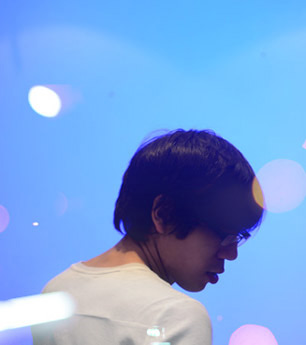
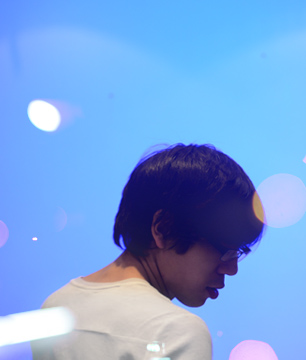
Update profile picture

diff --git a/bin/css/style.min.css b/bin/css/style.min.css
@@ -1,1 +1,1 @@
-html,body,div,span,object,iframe,h1,h2,h3,h4,h5,h6,p,blockquote,pre,abbr,address,cite,code,del,dfn,em,img,ins,kbd,q,samp,small,strong,sub,sup,var,b,i,dl,dt,dd,ol,ul,li,fieldset,form,label,legend,table,caption,tbody,tfoot,thead,tr,th,td,article,aside,canvas,details,figcaption,figure,footer,header,hgroup,menu,nav,section,summary,time,mark,audio,video{margin:0;padding:0;border:0;outline:0;font-size:100%;vertical-align:baseline;background:transparent}body{line-height:1}article,aside,details,figcaption,figure,footer,header,hgroup,menu,nav,section{display:block}nav ul{list-style:none}blockquote,q{quotes:none}blockquote:before,blockquote:after,q:before,q:after{content:'';content:none}a{margin:0;padding:0;font-size:100%;vertical-align:baseline;background:transparent}ins{background-color:#ff9;color:#000;text-decoration:none}mark{background-color:#ff9;color:#000;font-style:italic;font-weight:bold}del{text-decoration:line-through}abbr[title],dfn[title]{border-bottom:1px dotted;cursor:help}table{border-collapse:collapse;border-spacing:0}hr{display:block;height:1px;border:0;border-top:1px solid #ccc;margin:1em 0;padding:0}input,select{vertical-align:middle}@font-face{font-family:'MuseoSans500';src:url('webfonts/museosans-500/museosans-500.eot');src:url('webfonts/museosans-500/museosans-500.eot?#iefix') format('embedded-opentype'),url('webfonts/museosans-500/museosans-500.woff') format('woff'),url('webfonts/museosans-500/museosans-500.ttf') format('truetype'),url('webfonts/museosans-500/museosans-500.svg#MuseoSans500') format('svg');font-weight:normal;font-style:normal}@font-face{font-family:'MuseoSans300';src:url('webfonts/museosans-300/museosans-300.eot');src:url('webfonts/museosans-300/museosans-300.eot?#iefix') format('embedded-opentype'),url('webfonts/museosans-300/museosans-300.woff') format('woff'),url('webfonts/museosans-300/museosans-300.ttf') format('truetype'),url('webfonts/museosans-300/museosans-300.svg#MuseoSans300') format('svg');font-weight:normal;font-style:normal}@font-face{font-family:'ProximaNovaSemiBold';src:url("webfonts/proximanova-sbold/proximanova-sbold.eot");src:local('☺'),url("webfonts/proximanova-sbold/proximanova-sbold.ttf") format('truetype'),url('webfonts/proximanova-sbold/proximanova-sbold.svg#webfontaA1mSBzj') format('svg');font-weight:normal;font-style:normal}*{-webkit-text-size-adjust:none}html,body{font-family:'MuseoSans500',"Helvetica Neue",Helvetica,Arial,sans-serif;font-size:11px;line-height:18px;margin:0;padding:0;color:#111;background-color:#fafafa}::-webkit-scrollbar-thumb{border-radius:16px;border:4px solid #fafafa}::-webkit-scrollbar-thumb:vertical{background-color:#c0c7c7;height:100px}::-webkit-scrollbar-thumb:horizontal{background-color:#c0c7c7;height:16px!important}::-webkit-scrollbar-thumb:hover{background-color:#0a9fe1}::-webkit-scrollbar{height:16px;width:16px;background-color:#fafafa}::-webkit-scrollbar-corner{background-color:#fafafa}hr{color:#03b2f3;background-color:#03b2f3;height:2px;border:0;margin-right:18px;margin-left:18px}#body-content hr{margin-right:0;margin-left:0}ul{list-style-type:none}div img{margin-top:0;margin-left:0;padding-top:0;padding-left:0}button,input,select,textarea{color:#fff;background-color:#fff;border:1px solid #6f6f6f}input{width:200px;height:14px;transition:border-color .2s;-moz-transition:border-color .2s;-webkit-transition:border-color .2s;-o-transition:border-color .2s}input:hover{border-color:#000}a{text-decoration:none}.content a{-moz-transition-property:background-color,color;-moz-transition-duration:.2s;-webkit-transition-property:background-color,color;-webkit-transition-duration:.2s;-o-transition-property:background-color,color;-o-transition-duration:.2s;color:#0689e9;background-color:#fafafa;-webkit-border-radius:2px;-moz-border-radius:2px;-o-border-radius:2px;border-radius:2px}.content a:hover{color:#fff;background-color:#0a9fe1}a.menu{-moz-transition-property:color;-moz-transition-duration:.2s;-webkit-transition-property:color;-webkit-transition-duration:.2s;-o-transition-property:color;-o-transition-duration:.2s;color:#111;-webkit-font-smoothing:antialiased;font-family:'ProximaNovaSemiBold',"Helvetica Neue",Helvetica,Arial,sans-serif;font-size:14px;line-height:25px;text-transform:uppercase;font-weight:normal;border:0;border-bottom:0 solid #111;float:left;margin-top:5px;letter-spacing:.0px}.menu-space{-moz-transition-property:color;-moz-transition-duration:.2s;-webkit-transition-property:color;-webkit-transition-duration:.2s;-o-transition-property:color;-o-transition-duration:.2s;color:#0a9fe1;font-family:'ProximaNovaSemiBold',"Helvetica Neue",Helvetica,Arial,sans-serif;font-size:15px;line-height:25px;text-transform:uppercase;font-weight:normal;border:0;border-bottom:0 solid #dbdbdb;float:left;margin-top:6px;letter-spacing:.0px}a:hover.menu{color:#0689e9}a.menuSelected{color:#0689e9}a#arrow-top{-moz-transition-property:color;-moz-transition-duration:.2s;-webkit-transition-property:color;-webkit-transition-duration:.2s;-o-transition-property:color;-o-transition-duration:.2s;color:#111}a:hover#arrow-top{color:#0689e9}.share img{-moz-transition-property:background-color;-moz-transition-duration:.2s;-webkit-transition-property:background-color;-webkit-transition-duration:.2s;-o-transition-property:background-color;-o-transition-duration:.2s;background-color:#111;-webkit-border-radius:3px;-moz-border-radius:3px;-o-border-radius:3px;border-radius:3px;float:right;position:relative;margin-left:9px}.share img:hover{background-color:#0689e9}h1{font-family:'ProximaNovaSemiBold' "Helvetica Neue",Helvetica,Arial,sans-serif;font-size:48px;line-height:48px;letter-spacing:.0px;font-weight:normal;text-transform:uppercase;margin-bottom:0;margin-top:-4px;margin-left:-2px;-webkit-font-smoothing:antialiased;color:#0689e9}h2{font-family:'ProximaNovaSemiBold',"Helvetica Neue",Helvetica,Arial,sans-serif;font-size:21px;line-height:32px;letter-spacing:.0px;font-weight:normal;text-transform:uppercase}h3{-webkit-font-smoothing:antialiased;font-family:'ProximaNovaSemiBold',"Helvetica Neue",Helvetica,Arial,sans-serif;font-size:12px;line-height:25px;text-transform:uppercase;font-weight:normal;border:0;border-bottom:2px solid #111;float:left;margin-top:5px;letter-spacing:.0px}h4{font-family:'ProximaNovaSemiBold',"Helvetica Neue",Helvetica,Arial,sans-serif;font-size:12px;line-height:14px;text-transform:uppercase;font-weight:normal;border:0;border-bottom:2px;float:left;margin-top:0;letter-spacing:.0px}h5{font-family:'ProximaNovaSemiBold',"Helvetica Neue",Helvetica,Arial,sans-serif;font-size:21px;line-height:32px;letter-spacing:.0px;font-weight:normal}#container-header{position:fixed;z-index:80;width:100%;opacity:.0;top:0}#header{margin-left:auto;margin-right:auto;width:1026px}#header-left{position:absolute;width:306px;text-align:left;margin-left:33px;top:135px;color:#111;-webkit-font-smoothing:antialiased;font-family:'ProximaNovaSemiBold',"Helvetica Neue",Helvetica,Arial,sans-serif;font-size:14px;text-transform:uppercase;font-weight:normal;letter-spacing:.0px;opacity:.0}#logo{position:absolute;width:222px;height:54px;margin-left:402px;top:61px}#header-center{position:absolute;text-align:center;width:990px;margin-left:18px;top:126px}#nav{margin-left:324px}#header-right{position:absolute;width:306px;text-align:right;margin-left:687px;top:136px;color:#111;-webkit-font-smoothing:antialiased;font-family:'ProximaNovaSemiBold',"Helvetica Neue",Helvetica,Arial,sans-serif;font-size:14px;text-transform:uppercase;font-weight:normal;letter-spacing:.0px}#container-header-bg{position:fixed;z-index:70;width:100%;top:0}#header-bg{margin-left:auto;margin-right:auto;width:1026px}#header-bar{position:absolute;height:2px;width:990px;margin-left:18px;margin-right:18px;top:200px;background-color:#03b2f3}#header-bar-bg{position:absolute;height:200px;width:990px;margin-left:18px;margin-right:18px;top:0;background-color:#fafafa;-webkit-box-shadow:0 7px 4px -4px rgba(0,0,0,0.2);-moz-box-shadow:0 7px 4px -4px rgba(0,0,0,0.2);box-shadow:0 7px 4px -4px rgba(0,0,0,0.2);opacity:0}#container-body{margin-top:213px;margin-left:auto;margin-right:auto;width:1026px;overflow:hidden;z-index:5}.date{margin-right:2px}.plus{padding-right:3px;padding-left:3px}.video{background-color:#111}.video-container{background-color:#111;text-align:center;height:557px}.profile-picture img{width:306px;height:345px}.brand img{-moz-transition-property:background-color;-moz-transition-duration:.2s;-webkit-transition-property:background-color;-webkit-transition-duration:.2s;-o-transition-property:background-color;-o-transition-duration:.2s;-webkit-border-radius:6px;-moz-border-radius:6px;-o-border-radius:6px;border-radius:6px;width:99px;height:75px;float:left;position:relative}.brand img:hover{background-color:#e7e7e7}.new-row{clear:both}.profile-picture{margin-top:10px}.inner-left{margin-right:25px}.size1of1,.size1of2,.size1of3,.size1of4,.size1of4b,.size3of4,.size3of4b,.size2of3,.size2of3b,.size1of6{float:left;position:relative;margin-right:18px;margin-left:18px}.inner-left,.inner-right{float:left;position:relative}.size1of1{width:990px}.size1of2{width:477px}.size1of3{width:306px}.size1of4{width:221px}.size1of4b{width:220px}.size3of4{width:733px}.size3of4b{width:660px;padding-right:73px}.size1of6{width:135px}.size2of3{width:648px}.size2of3b{width:590px;padding-right:58px}.copy{font-size:14px;line-height:21px;font-family:'MuseoSans300',"Helvetica Neue",Helvetica,Arial,sans-serif;color:#000}.copy-project{font-size:14px;line-height:21px;padding-right:60px;font-family:'MuseoSans300',"Helvetica Neue",Helvetica,Arial,sans-serif;color:#000}.isotope-item{z-index:20}.isotope-hidden.isotope-item{pointer-events:none;z-index:10}html,body{height:100%}.grid-item{width:135px;height:221px;margin:18px;float:left;overflow:hidden;position:relative;cursor:pointer}.small{width:306px;height:241px}.medium{width:306px;height:381px}.big{width:648px;height:381px}.grid-item-image{-moz-transition-property:background-color;-moz-transition-duration:.2s;-webkit-transition-property:background-color;-webkit-transition-duration:.2s;-o-transition-property:background-color;-o-transition-duration:.2s;margin:0;padding:0}.grid-item-image.small{width:306px;height:211px}.grid-item-image.medium{width:306px;height:351px}.grid-item-image.big{width:648px;height:351px}.grid-item-name{-moz-transition-property:border-bottom-color,color;-moz-transition-duration:.2s;-webkit-transition-property:border-bottom-color,color;-webkit-transition-duration:.2s;-o-transition-property:border-bottom-color,color;-o-transition-duration:.2s;-webkit-font-smoothing:antialiased;position:absolute;margin:0;left:.0px;bottom:.0px;font-family:'ProximaNovaSemiBold',"Helvetica Neue",Helvetica,Arial,sans-serif;font-size:12px;line-height:25px;text-transform:uppercase;font-weight:normal;border:0;border-bottom:2px solid #111;color:#111;float:left;margin-top:5px;letter-spacing:.0px}.grid-item-name.over{color:#0689e9;border-bottom:2px solid #0689e9}.grid-item-over{position:absolute;z-index:5;left:.0px;top:.0px;background-color:#0689e9}.grid-item-over.small{width:306px;height:211px}.grid-item-over.medium{width:306px;height:351px}.grid-item-over.big{width:648px;height:351px}.grid-item-tags{position:absolute;margin:0;right:.0px;bottom:3.0px}a.tag{-moz-transition-property:background-color,color;-moz-transition-duration:.2s;-webkit-transition-property:background-color,color;-webkit-transition-duration:.2s;-o-transition-property:background-color,color;-o-transition-duration:.2s;background-color:#c0c7c7;color:#fff;font-size:10px;-webkit-border-radius:9px;-moz-border-radius:9px;-o-border-radius:9px;border-radius:9px;text-transform:lowercase;text-decoration:none;white-space:nowrap;display:inline-block;font-weight:normal;padding:1px 5px 1px 5px;margin:2px 0 1px 0}a:hover.tag{background-color:#0a9fe1;color:#fff}a.tagSelected{background-color:#0a9fe1;color:#fff;font-size:10px;-webkit-border-radius:9px;-moz-border-radius:9px;-o-border-radius:9px;border-radius:9px;text-transform:lowercase;text-decoration:none;white-space:nowrap;display:inline-block;font-weight:normal;padding:1px 5px 1px 5px;margin:2px 0 1px 0}a:hover.tagSelected{background-color:#0a9fe1;color:#fff}a.view-project{-moz-transition-property:background-color,color;-moz-transition-duration:.2s;-webkit-transition-property:background-color,color;-webkit-transition-duration:.2s;-o-transition-property:background-color,color;-o-transition-duration:.2s;-webkit-font-smoothing:antialiased;color:#fff;background-color:#111;font-family:'ProximaNovaSemiBold',"Helvetica Neue",Helvetica,Arial,sans-serif;font-size:21px;line-height:32px;letter-spacing:.0px;font-weight:normal;text-transform:uppercase;-webkit-border-radius:6px;-moz-border-radius:6px;-o-border-radius:6px;border-radius:6px;text-decoration:none;white-space:nowrap;display:inline-block;font-weight:normal;padding:12px 80px 10px 81px;margin-top:6px;margin-bottom:13px;-webkit-box-shadow:0 7px 4px -4px rgba(0,0,0,0.2);-moz-box-shadow:0 7px 4px -4px rgba(0,0,0,0.2);box-shadow:0 7px 4px -4px rgba(0,0,0,0.2)}a:hover.view-project{background-color:#0689e9}.project-image{float:left;position:relative;margin-bottom:10px}#stream-grid{width:100%}#word-grid{width:342px;float:left;position:relative}#media-grid{width:684px;margin-top:18px;float:left;position:relative}.media-stream-item{position:relative;overflow:hidden;text-align:left;display:block;margin-bottom:30px}.media-stream-item p{margin-top:7px}.word-stream-item{position:relative;overflow:hidden;text-align:left;display:block;margin-bottom:20px}.word-stream-line{position:relative;overflow:hidden;text-align:left;display:block;background-color:#e7e7e7;height:2px;margin-right:18px;margin-left:18px;margin-bottom:20px}.video-item-landscape{width:306px;height:254px}.video-item-portrait{width:306px;height:433px}.flickr-stream-item{overflow:hidden;height:313px}canvas{position:fixed;top:0;left:0;overflow:hidden;z-index:0;width:100%;height:100%}#follow{height:34px;margin-top:16px;margin-bottom:45px}.follow-icon{float:left;position:relative;margin-right:4px;width:34px;height:34px;cursor:pointer}.follow-icon img{position:absolute;top:0;left:0}.follow-icon-out{opacity:1.0;-moz-opacity:1.0;filter:alpha(opacity=100)}.follow-icon-over{transition:opacity .2s;-moz-transition:opacity .2s;-webkit-transition:opacity .2s;-o-transition:opacity .2s;opacity:0;-moz-opacity:0;filter:alpha(opacity=0)}.follow-icon-over:hover{opacity:1.0;-moz-opacity:1.0;filter:alpha(opacity=100)}.pagination .animated{-khtml-transition-duration:300ms;-ms-transition-duration:300ms;-moz-transition-duration:300ms;-webkit-transition-duration:300ms;-o-transition-duration:300ms;transition-duration:300ms;-khtml-transition-timing-function:ease-out;-ms-transition-timing-function:ease-out;-moz- transition-timing-function:ease-out;-webkit-transition-timing-function:ease-out;-o-transition-timing-function:ease-out;transition-timing-function:ease-out}.pagination .arrow{overflow:hidden;top:50%;position:fixed;margin-top:-60px;z-index:999}.pagination .arrow{background:url(../images/arrows.png) 0 0 no-repeat;cursor:pointer;height:115px;text-indent:-9999px;overflow:hidden;width:75px;opacity:.7}.pagination.prev-project{left:0}.pagination.prev-project .arrow{background-position:30px 25px;left:0}.pagination.prev-project:hover .arrow{background-position:20px 25px;opacity:1!important}.pagination.next-project{right:0}.pagination.next-project .arrow{background-position:0 -199px;right:0}.pagination.next-project:hover .arrow{background-position:10px -199px;opacity:1!important}body:hover .pagination .arrow{opacity:.7}
+html,body,div,span,object,iframe,h1,h2,h3,h4,h5,h6,p,blockquote,pre,abbr,address,cite,code,del,dfn,em,img,ins,kbd,q,samp,small,strong,sub,sup,var,b,i,dl,dt,dd,ol,ul,li,fieldset,form,label,legend,table,caption,tbody,tfoot,thead,tr,th,td,article,aside,canvas,details,figcaption,figure,footer,header,hgroup,menu,nav,section,summary,time,mark,audio,video{margin:0;padding:0;border:0;outline:0;font-size:100%;vertical-align:baseline;background:transparent}body{line-height:1}article,aside,details,figcaption,figure,footer,header,hgroup,menu,nav,section{display:block}nav ul{list-style:none}blockquote,q{quotes:none}blockquote:before,blockquote:after,q:before,q:after{content:'';content:none}a{margin:0;padding:0;font-size:100%;vertical-align:baseline;background:transparent}ins{background-color:#ff9;color:#000;text-decoration:none}mark{background-color:#ff9;color:#000;font-style:italic;font-weight:bold}del{text-decoration:line-through}abbr[title],dfn[title]{border-bottom:1px dotted;cursor:help}table{border-collapse:collapse;border-spacing:0}hr{display:block;height:1px;border:0;border-top:1px solid #ccc;margin:1em 0;padding:0}input,select{vertical-align:middle}@font-face{font-family:'MuseoSans500';src:url('webfonts/museosans-500/museosans-500.eot');src:url('webfonts/museosans-500/museosans-500.eot?#iefix') format('embedded-opentype'),url('webfonts/museosans-500/museosans-500.woff') format('woff'),url('webfonts/museosans-500/museosans-500.ttf') format('truetype'),url('webfonts/museosans-500/museosans-500.svg#MuseoSans500') format('svg');font-weight:normal;font-style:normal}@font-face{font-family:'MuseoSans300';src:url('webfonts/museosans-300/museosans-300.eot');src:url('webfonts/museosans-300/museosans-300.eot?#iefix') format('embedded-opentype'),url('webfonts/museosans-300/museosans-300.woff') format('woff'),url('webfonts/museosans-300/museosans-300.ttf') format('truetype'),url('webfonts/museosans-300/museosans-300.svg#MuseoSans300') format('svg');font-weight:normal;font-style:normal}@font-face{font-family:'ProximaNovaSemiBold';src:url("webfonts/proximanova-sbold/proximanova-sbold.eot");src:local('☺'),url("webfonts/proximanova-sbold/proximanova-sbold.ttf") format('truetype'),url('webfonts/proximanova-sbold/proximanova-sbold.svg#webfontaA1mSBzj') format('svg');font-weight:normal;font-style:normal}*{-webkit-text-size-adjust:none}html,body{font-family:'MuseoSans500',"Helvetica Neue",Helvetica,Arial,sans-serif;font-size:11px;line-height:18px;margin:0;padding:0;color:#111;background-color:#fafafa}::-webkit-scrollbar-thumb{border-radius:16px;border:4px solid #fafafa}::-webkit-scrollbar-thumb:vertical{background-color:#c0c7c7;height:100px}::-webkit-scrollbar-thumb:horizontal{background-color:#c0c7c7;height:16px!important}::-webkit-scrollbar-thumb:hover{background-color:#0a9fe1}::-webkit-scrollbar{height:16px;width:16px;background-color:#fafafa}::-webkit-scrollbar-corner{background-color:#fafafa}hr{color:#03b2f3;background-color:#03b2f3;height:2px;border:0;margin-right:18px;margin-left:18px}#body-content hr{margin-right:0;margin-left:0}ul{list-style-type:none}div img{margin-top:0;margin-left:0;padding-top:0;padding-left:0}button,input,select,textarea{color:#fff;background-color:#fff;border:1px solid #6f6f6f}input{width:200px;height:14px;transition:border-color .2s;-moz-transition:border-color .2s;-webkit-transition:border-color .2s;-o-transition:border-color .2s}input:hover{border-color:#000}a{text-decoration:none}.content a{-moz-transition-property:background-color,color;-moz-transition-duration:.2s;-webkit-transition-property:background-color,color;-webkit-transition-duration:.2s;-o-transition-property:background-color,color;-o-transition-duration:.2s;color:#0689e9;background-color:#fafafa;-webkit-border-radius:2px;-moz-border-radius:2px;-o-border-radius:2px;border-radius:2px}.content a:hover{color:#fff;background-color:#0a9fe1}a.menu{-moz-transition-property:color;-moz-transition-duration:.2s;-webkit-transition-property:color;-webkit-transition-duration:.2s;-o-transition-property:color;-o-transition-duration:.2s;color:#111;-webkit-font-smoothing:antialiased;font-family:'ProximaNovaSemiBold',"Helvetica Neue",Helvetica,Arial,sans-serif;font-size:14px;line-height:25px;text-transform:uppercase;font-weight:normal;border:0;border-bottom:0 solid #111;float:left;margin-top:5px;letter-spacing:.0px}.menu-space{-moz-transition-property:color;-moz-transition-duration:.2s;-webkit-transition-property:color;-webkit-transition-duration:.2s;-o-transition-property:color;-o-transition-duration:.2s;color:#0a9fe1;font-family:'ProximaNovaSemiBold',"Helvetica Neue",Helvetica,Arial,sans-serif;font-size:15px;line-height:25px;text-transform:uppercase;font-weight:normal;border:0;border-bottom:0 solid #dbdbdb;float:left;margin-top:6px;letter-spacing:.0px}a:hover.menu{color:#0689e9}a.menuSelected{color:#0689e9}a#arrow-top{-moz-transition-property:color;-moz-transition-duration:.2s;-webkit-transition-property:color;-webkit-transition-duration:.2s;-o-transition-property:color;-o-transition-duration:.2s;color:#111}a:hover#arrow-top{color:#0689e9}.share img{-moz-transition-property:background-color;-moz-transition-duration:.2s;-webkit-transition-property:background-color;-webkit-transition-duration:.2s;-o-transition-property:background-color;-o-transition-duration:.2s;background-color:#111;-webkit-border-radius:3px;-moz-border-radius:3px;-o-border-radius:3px;border-radius:3px;float:right;position:relative;margin-left:9px}.share img:hover{background-color:#0689e9}h1{font-family:'ProximaNovaSemiBold' "Helvetica Neue",Helvetica,Arial,sans-serif;font-size:48px;line-height:48px;letter-spacing:.0px;font-weight:normal;text-transform:uppercase;margin-bottom:0;margin-top:-4px;margin-left:-2px;-webkit-font-smoothing:antialiased;color:#0689e9}h2{font-family:'ProximaNovaSemiBold',"Helvetica Neue",Helvetica,Arial,sans-serif;font-size:21px;line-height:32px;letter-spacing:.0px;font-weight:normal;text-transform:uppercase}h3{-webkit-font-smoothing:antialiased;font-family:'ProximaNovaSemiBold',"Helvetica Neue",Helvetica,Arial,sans-serif;font-size:12px;line-height:25px;text-transform:uppercase;font-weight:normal;border:0;border-bottom:2px solid #111;float:left;margin-top:5px;letter-spacing:.0px}h4{font-family:'ProximaNovaSemiBold',"Helvetica Neue",Helvetica,Arial,sans-serif;font-size:12px;line-height:14px;text-transform:uppercase;font-weight:normal;border:0;border-bottom:2px;float:left;margin-top:0;letter-spacing:.0px}h5{font-family:'ProximaNovaSemiBold',"Helvetica Neue",Helvetica,Arial,sans-serif;font-size:21px;line-height:32px;letter-spacing:.0px;font-weight:normal}#container-header{position:fixed;z-index:80;width:100%;opacity:.0;top:0}#header{margin-left:auto;margin-right:auto;width:1026px}#header-left{position:absolute;width:306px;text-align:left;margin-left:33px;top:135px;color:#111;-webkit-font-smoothing:antialiased;font-family:'ProximaNovaSemiBold',"Helvetica Neue",Helvetica,Arial,sans-serif;font-size:14px;text-transform:uppercase;font-weight:normal;letter-spacing:.0px;opacity:.0}#logo{position:absolute;width:222px;height:54px;margin-left:402px;top:61px}#header-center{position:absolute;text-align:center;width:990px;margin-left:18px;top:126px}#nav{margin-left:324px}#header-right{position:absolute;width:306px;text-align:right;margin-left:687px;top:136px;color:#111;-webkit-font-smoothing:antialiased;font-family:'ProximaNovaSemiBold',"Helvetica Neue",Helvetica,Arial,sans-serif;font-size:14px;text-transform:uppercase;font-weight:normal;letter-spacing:.0px}#container-header-bg{position:fixed;z-index:70;width:100%;top:0}#header-bg{margin-left:auto;margin-right:auto;width:1026px}#header-bar{position:absolute;height:2px;width:990px;margin-left:18px;margin-right:18px;top:200px;background-color:#03b2f3}#header-bar-bg{position:absolute;height:200px;width:990px;margin-left:18px;margin-right:18px;top:0;background-color:#fafafa;-webkit-box-shadow:0 7px 4px -4px rgba(0,0,0,0.2);-moz-box-shadow:0 7px 4px -4px rgba(0,0,0,0.2);box-shadow:0 7px 4px -4px rgba(0,0,0,0.2);opacity:0}#container-body{margin-top:213px;margin-left:auto;margin-right:auto;width:1026px;overflow:hidden;z-index:5}.date{margin-right:2px}.plus{padding-right:3px;padding-left:3px}.video{background-color:#111}.video-container{background-color:#111;text-align:center;height:557px}.profile-picture img{width:306px;height:360px}.brand img{-moz-transition-property:background-color;-moz-transition-duration:.2s;-webkit-transition-property:background-color;-webkit-transition-duration:.2s;-o-transition-property:background-color;-o-transition-duration:.2s;-webkit-border-radius:6px;-moz-border-radius:6px;-o-border-radius:6px;border-radius:6px;width:99px;height:75px;float:left;position:relative}.brand img:hover{background-color:#e7e7e7}.new-row{clear:both}.profile-picture{margin-top:10px}.inner-left{margin-right:25px}.size1of1,.size1of2,.size1of3,.size1of4,.size1of4b,.size3of4,.size3of4b,.size2of3,.size2of3b,.size1of6{float:left;position:relative;margin-right:18px;margin-left:18px}.inner-left,.inner-right{float:left;position:relative}.size1of1{width:990px}.size1of2{width:477px}.size1of3{width:306px}.size1of4{width:221px}.size1of4b{width:220px}.size3of4{width:733px}.size3of4b{width:660px;padding-right:73px}.size1of6{width:135px}.size2of3{width:648px}.size2of3b{width:590px;padding-right:58px}.copy{font-size:14px;line-height:21px;font-family:'MuseoSans300',"Helvetica Neue",Helvetica,Arial,sans-serif;color:#000}.copy-project{font-size:14px;line-height:21px;padding-right:60px;font-family:'MuseoSans300',"Helvetica Neue",Helvetica,Arial,sans-serif;color:#000}.isotope-item{z-index:20}.isotope-hidden.isotope-item{pointer-events:none;z-index:10}html,body{height:100%}.grid-item{width:135px;height:221px;margin:18px;float:left;overflow:hidden;position:relative;cursor:pointer}.small{width:306px;height:241px}.medium{width:306px;height:381px}.big{width:648px;height:381px}.grid-item-image{-moz-transition-property:background-color;-moz-transition-duration:.2s;-webkit-transition-property:background-color;-webkit-transition-duration:.2s;-o-transition-property:background-color;-o-transition-duration:.2s;margin:0;padding:0}.grid-item-image.small{width:306px;height:211px}.grid-item-image.medium{width:306px;height:351px}.grid-item-image.big{width:648px;height:351px}.grid-item-name{-moz-transition-property:border-bottom-color,color;-moz-transition-duration:.2s;-webkit-transition-property:border-bottom-color,color;-webkit-transition-duration:.2s;-o-transition-property:border-bottom-color,color;-o-transition-duration:.2s;-webkit-font-smoothing:antialiased;position:absolute;margin:0;left:.0px;bottom:.0px;font-family:'ProximaNovaSemiBold',"Helvetica Neue",Helvetica,Arial,sans-serif;font-size:12px;line-height:25px;text-transform:uppercase;font-weight:normal;border:0;border-bottom:2px solid #111;color:#111;float:left;margin-top:5px;letter-spacing:.0px}.grid-item-name.over{color:#0689e9;border-bottom:2px solid #0689e9}.grid-item-over{position:absolute;z-index:5;left:.0px;top:.0px;background-color:#0689e9}.grid-item-over.small{width:306px;height:211px}.grid-item-over.medium{width:306px;height:351px}.grid-item-over.big{width:648px;height:351px}.grid-item-tags{position:absolute;margin:0;right:.0px;bottom:3.0px}a.tag{-moz-transition-property:background-color,color;-moz-transition-duration:.2s;-webkit-transition-property:background-color,color;-webkit-transition-duration:.2s;-o-transition-property:background-color,color;-o-transition-duration:.2s;background-color:#c0c7c7;color:#fff;font-size:10px;-webkit-border-radius:9px;-moz-border-radius:9px;-o-border-radius:9px;border-radius:9px;text-transform:lowercase;text-decoration:none;white-space:nowrap;display:inline-block;font-weight:normal;padding:1px 5px 1px 5px;margin:2px 0 1px 0}a:hover.tag{background-color:#0a9fe1;color:#fff}a.tagSelected{background-color:#0a9fe1;color:#fff;font-size:10px;-webkit-border-radius:9px;-moz-border-radius:9px;-o-border-radius:9px;border-radius:9px;text-transform:lowercase;text-decoration:none;white-space:nowrap;display:inline-block;font-weight:normal;padding:1px 5px 1px 5px;margin:2px 0 1px 0}a:hover.tagSelected{background-color:#0a9fe1;color:#fff}a.view-project{-moz-transition-property:background-color,color;-moz-transition-duration:.2s;-webkit-transition-property:background-color,color;-webkit-transition-duration:.2s;-o-transition-property:background-color,color;-o-transition-duration:.2s;-webkit-font-smoothing:antialiased;color:#fff;background-color:#111;font-family:'ProximaNovaSemiBold',"Helvetica Neue",Helvetica,Arial,sans-serif;font-size:21px;line-height:32px;letter-spacing:.0px;font-weight:normal;text-transform:uppercase;-webkit-border-radius:6px;-moz-border-radius:6px;-o-border-radius:6px;border-radius:6px;text-decoration:none;white-space:nowrap;display:inline-block;font-weight:normal;padding:12px 80px 10px 81px;margin-top:6px;margin-bottom:13px;-webkit-box-shadow:0 7px 4px -4px rgba(0,0,0,0.2);-moz-box-shadow:0 7px 4px -4px rgba(0,0,0,0.2);box-shadow:0 7px 4px -4px rgba(0,0,0,0.2)}a:hover.view-project{background-color:#0689e9}.project-image{float:left;position:relative;margin-bottom:10px}#stream-grid{width:100%}#word-grid{width:342px;float:left;position:relative}#media-grid{width:684px;margin-top:18px;float:left;position:relative}.media-stream-item{position:relative;overflow:hidden;text-align:left;display:block;margin-bottom:30px}.media-stream-item p{margin-top:7px}.word-stream-item{position:relative;overflow:hidden;text-align:left;display:block;margin-bottom:20px}.word-stream-line{position:relative;overflow:hidden;text-align:left;display:block;background-color:#e7e7e7;height:2px;margin-right:18px;margin-left:18px;margin-bottom:20px}.video-item-landscape{width:306px;height:254px}.video-item-portrait{width:306px;height:433px}.flickr-stream-item{overflow:hidden;height:313px}canvas{position:fixed;top:0;left:0;overflow:hidden;z-index:0;width:100%;height:100%}#follow{height:34px;margin-top:16px;margin-bottom:45px}.follow-icon{float:left;position:relative;margin-right:4px;width:34px;height:34px;cursor:pointer}.follow-icon img{position:absolute;top:0;left:0}.follow-icon-out{opacity:1.0;-moz-opacity:1.0;filter:alpha(opacity=100)}.follow-icon-over{transition:opacity .2s;-moz-transition:opacity .2s;-webkit-transition:opacity .2s;-o-transition:opacity .2s;opacity:0;-moz-opacity:0;filter:alpha(opacity=0)}.follow-icon-over:hover{opacity:1.0;-moz-opacity:1.0;filter:alpha(opacity=100)}.pagination .animated{-khtml-transition-duration:300ms;-ms-transition-duration:300ms;-moz-transition-duration:300ms;-webkit-transition-duration:300ms;-o-transition-duration:300ms;transition-duration:300ms;-khtml-transition-timing-function:ease-out;-ms-transition-timing-function:ease-out;-moz- transition-timing-function:ease-out;-webkit-transition-timing-function:ease-out;-o-transition-timing-function:ease-out;transition-timing-function:ease-out}.pagination .arrow{overflow:hidden;top:50%;position:fixed;margin-top:-60px;z-index:999}.pagination .arrow{background:url(../images/arrows.png) 0 0 no-repeat;cursor:pointer;height:115px;text-indent:-9999px;overflow:hidden;width:75px;opacity:.7}.pagination.prev-project{left:0}.pagination.prev-project .arrow{background-position:30px 25px;left:0}.pagination.prev-project:hover .arrow{background-position:20px 25px;opacity:1!important}.pagination.next-project{right:0}.pagination.next-project .arrow{background-position:0 -199px;right:0}.pagination.next-project:hover .arrow{background-position:10px -199px;opacity:1!important}body:hover .pagination .arrow{opacity:.7}

diff --git a/bin/css/style.css b/bin/css/style.css
@@ -535,7 +535,7 @@ h5 {
 
 .profile-picture img{
 	width: 306px;
-	height: 345px;
+	height: 360px;
 }
 
 .brand img {
